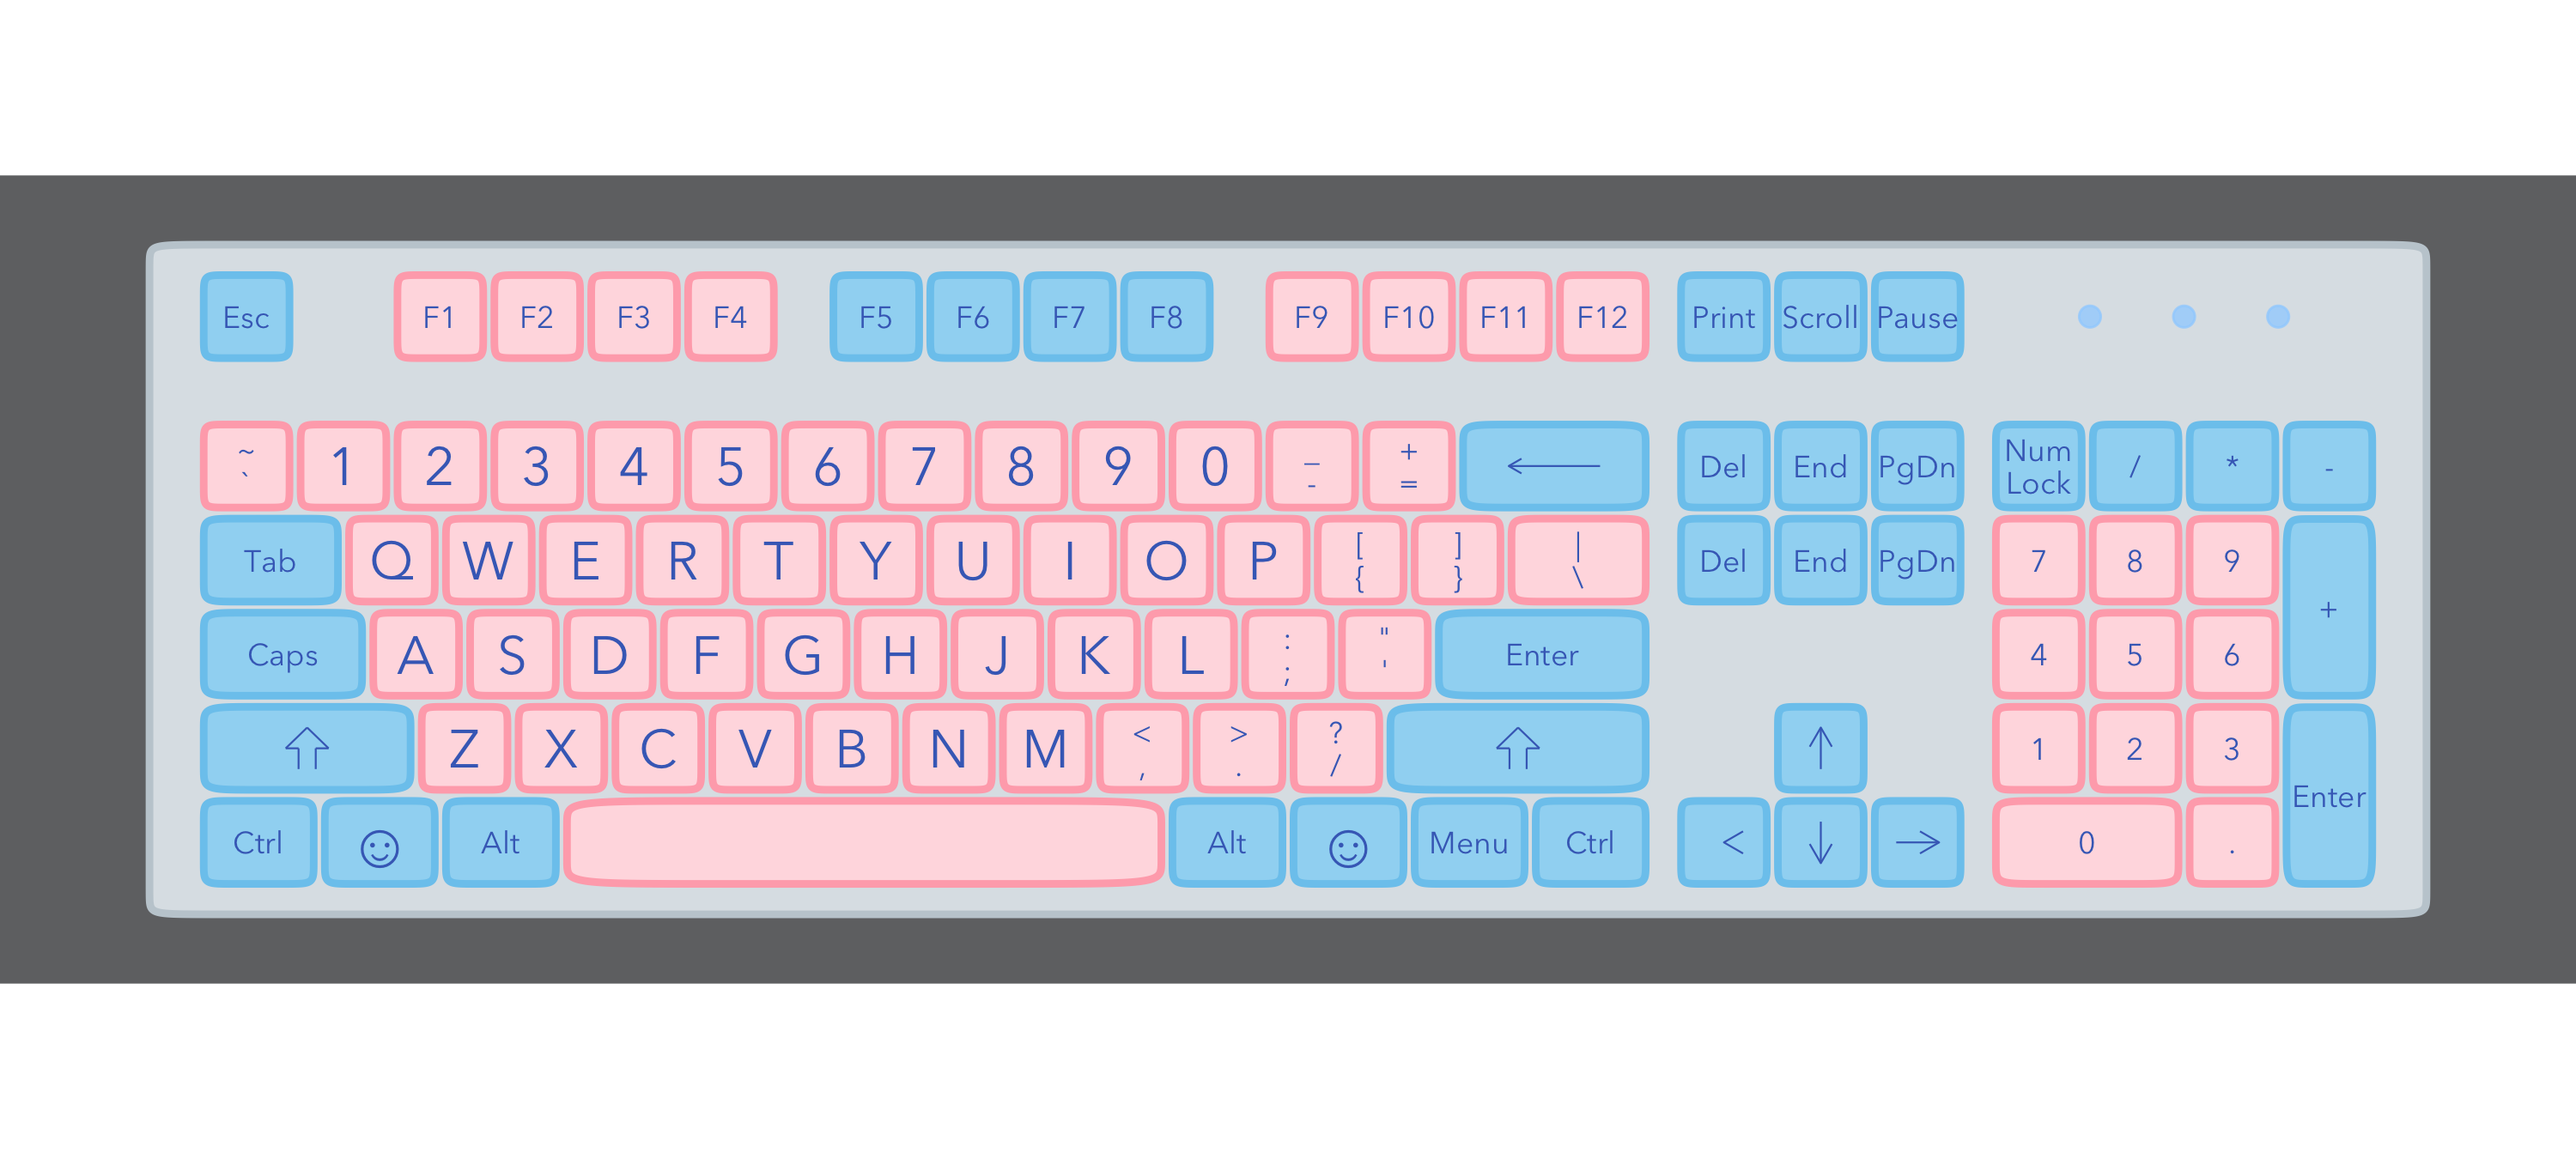
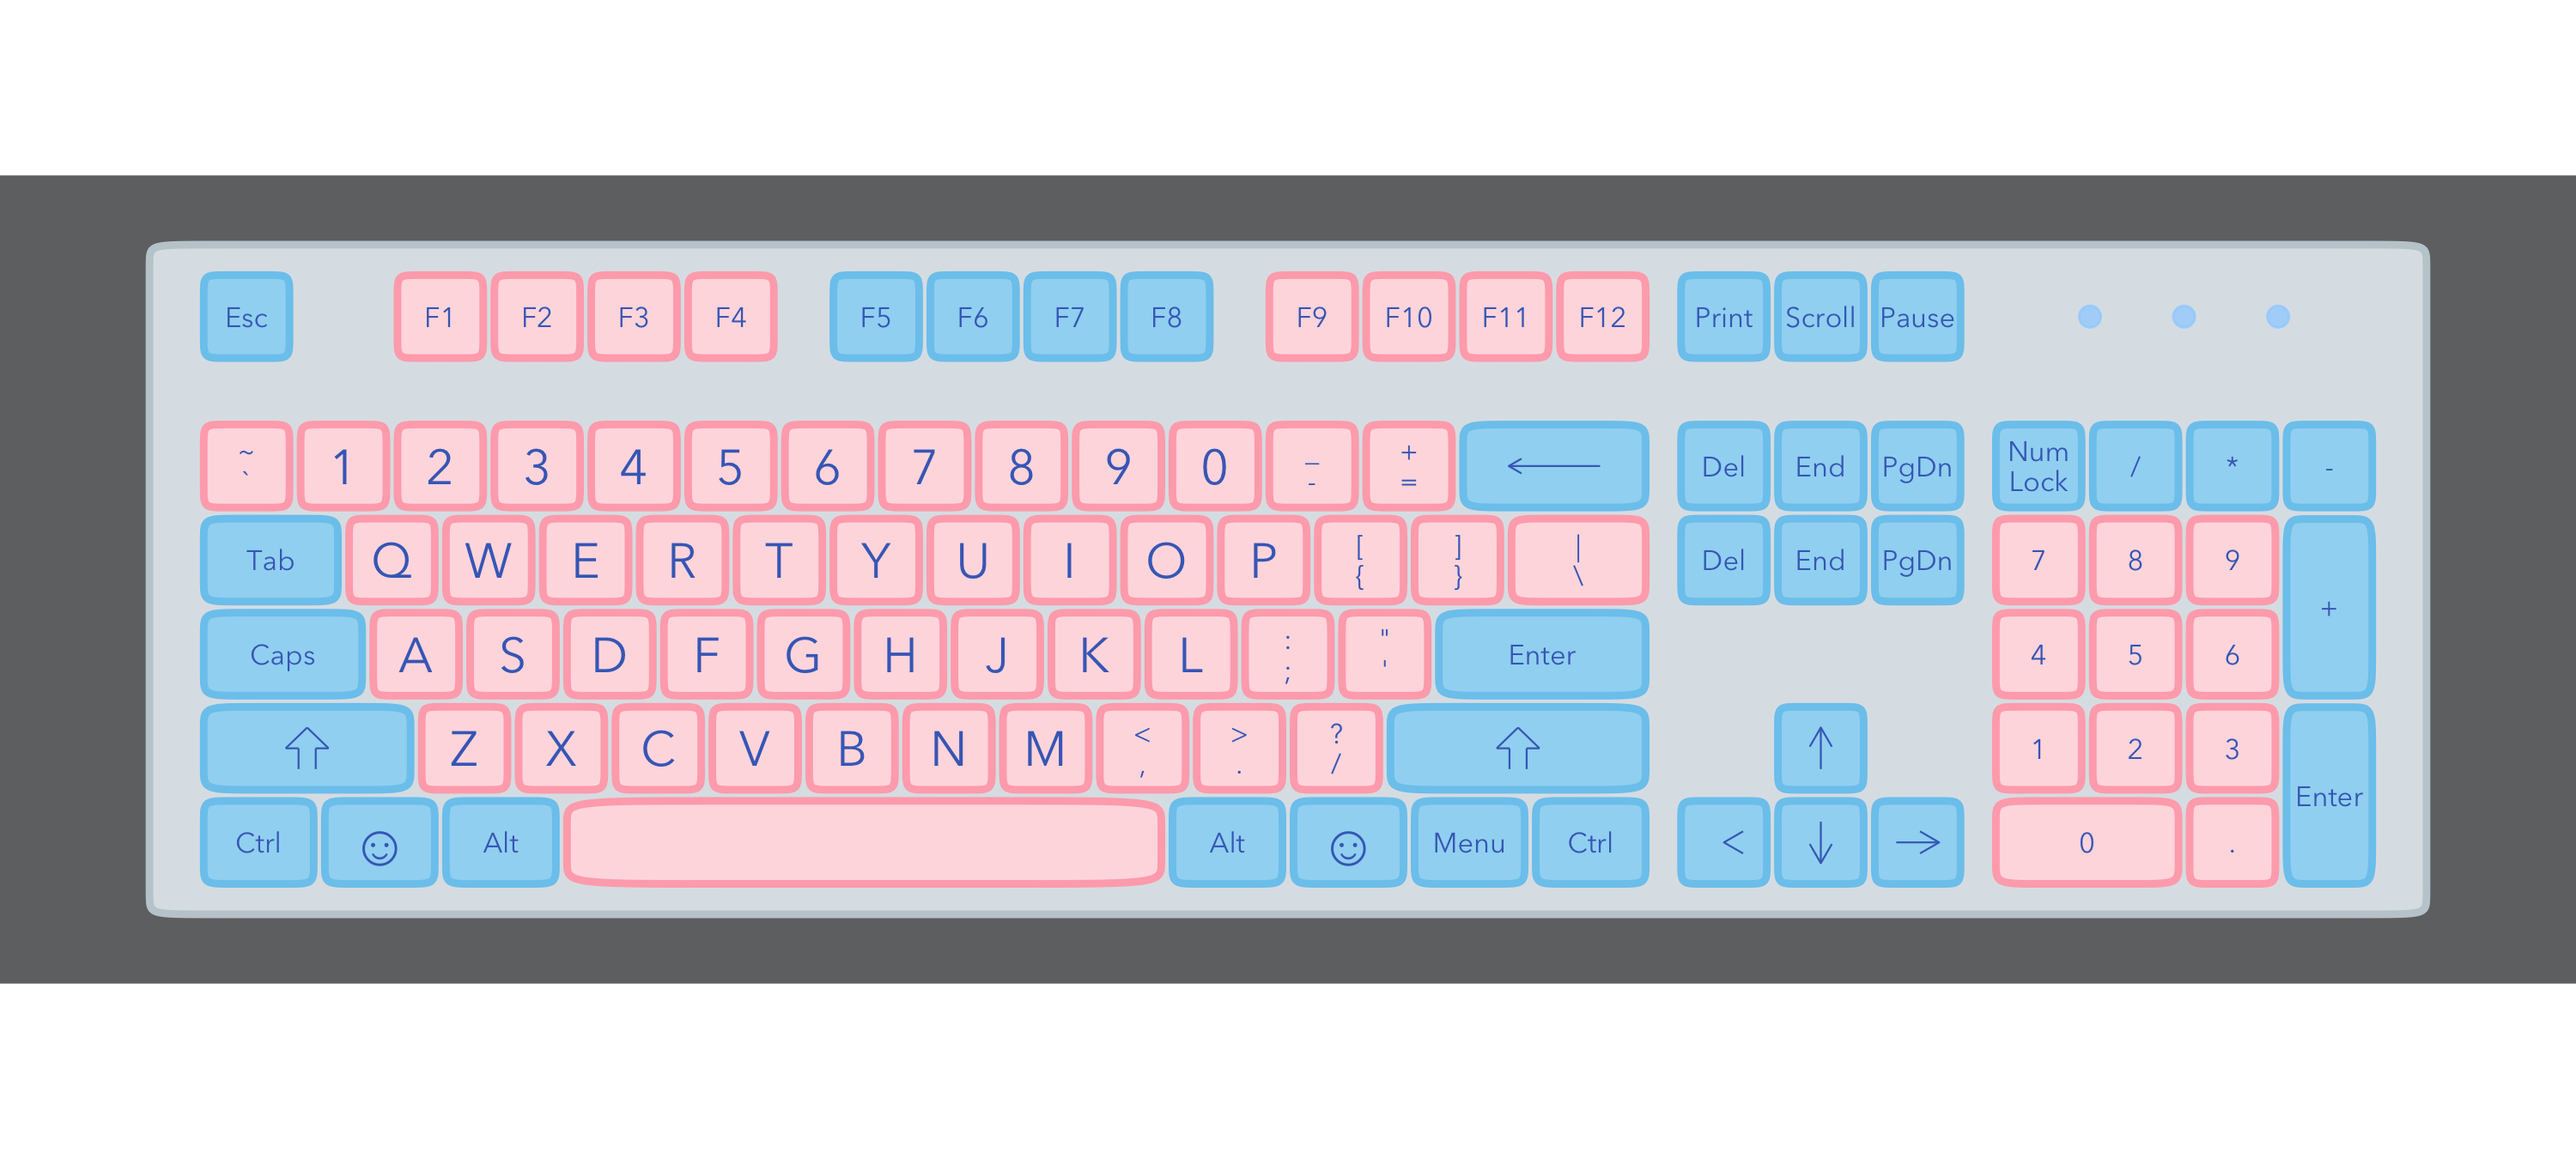
Add disclaimer, resize text

diff --git a/README.md b/README.md
@@ -9,7 +9,9 @@
 experimental](https://img.shields.io/badge/lifecycle-experimental-orange.svg)](https://www.tidyverse.org/lifecycle/#experimental)
 <!-- badges: end -->
 
-ggkeyboard lets you plot a keyboard and change the colours on it.
+ggkeyboard lets you plot a keyboard and change the colours on it. This
+package is very experimental, so expect breaking changes as I work
+through making all the customization options as friendly as possible.
 
 You can install ggkeyboard from github:
 
@@ -88,7 +90,7 @@ is based off the [Varmilo VA108 Fullsize
 Keyboard](https://drop.com/buy/varmilo-108-keyboard)
 
 ``` r
-ggkeyboard(full, palette = keyboard_palette("varmilo"))
+ggkeyboard(full, palette = keyboard_palette("varmilo"), font_size = 2.75)
 ```
 
 <img src="man/figures/README-full-1.png" width="100%" />
